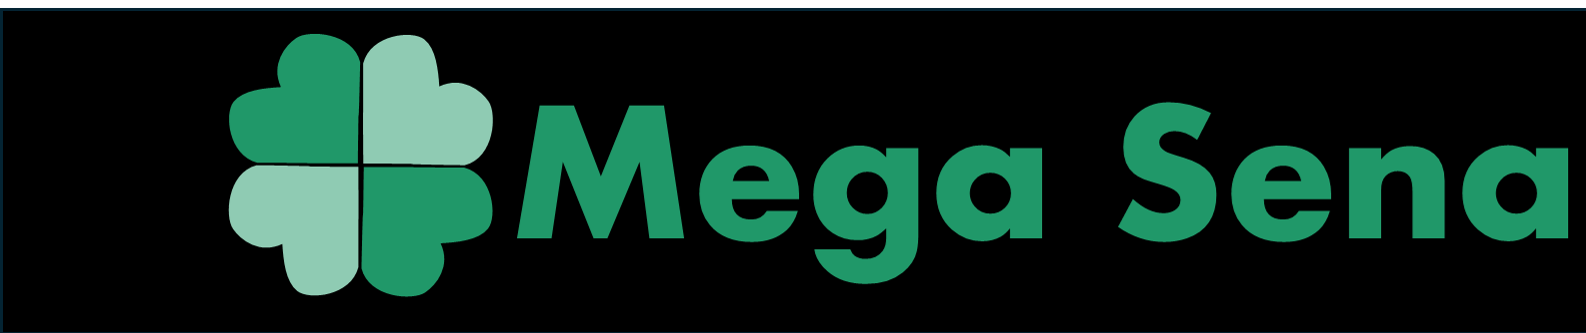
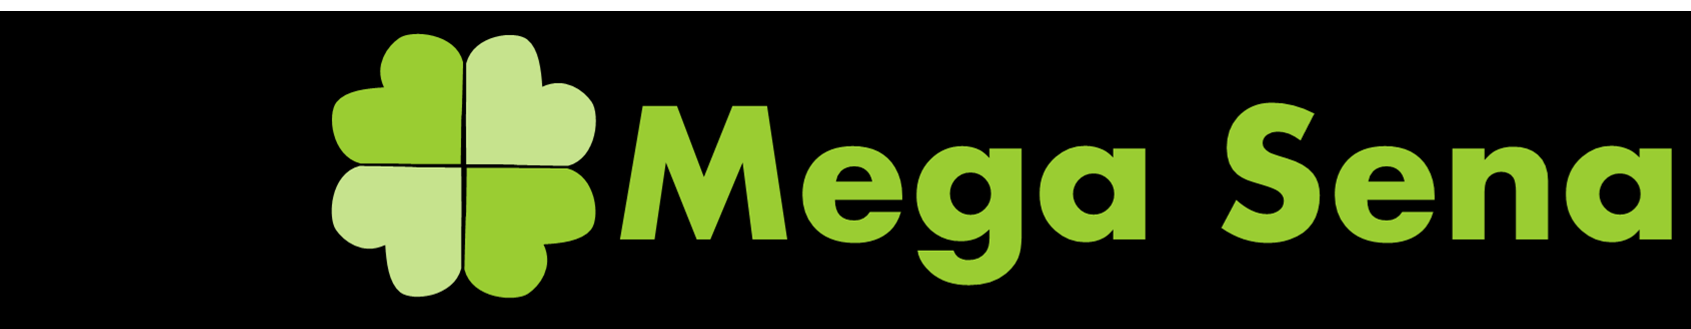
ajustando layou das paginas

diff --git a/templates/analise_estatistica_avancada_quina.html b/templates/analise_estatistica_avancada_quina.html
@@ -76,7 +76,7 @@
   <link rel="stylesheet" href="{{ url_for('static', filename='css/estilo.css') }}">
 
   <style>
-    /* Moldura Neon Lilás - Desktop */
+    /* Moldura Neon Azul Ciano Escuro - Desktop */
     html::before {
       content: '';
       position: fixed;
@@ -84,15 +84,15 @@
       left: 0;
       width: 100vw;
       height: 100vh;
-      box-shadow: inset 0 0 0 4px #B96AFF, 0 0 15px #B96AFF, 0 0 30px #B96AFF;
+      box-shadow: inset 0 0 0 4px #008B8B, 0 0 15px #008B8B, 0 0 30px #008B8B;
       z-index: 9999;
       pointer-events: none;
     }
 
-    /* Moldura Neon Lilás - Mobile (mais fina) */
+    /* Moldura Neon Azul Ciano Escuro - Mobile (mais fina) */
     @media (max-width: 768px) {
       html::before {
-        box-shadow: inset 0 0 0 2px #B96AFF, 0 0 8px #B96AFF, 0 0 15px #B96AFF;
+        box-shadow: inset 0 0 0 2px #008B8B, 0 0 8px #008B8B, 0 0 15px #008B8B;
       }
     }
 
@@ -488,7 +488,8 @@
       right: 0;
       background: linear-gradient(135deg, rgba(30, 27, 41, 0.95) 0%, rgba(42, 35, 64, 0.95) 100%);
       backdrop-filter: blur(10px);
-      border-bottom: 1px solid rgba(255, 255, 255, 0.1);
+      border-bottom: 3px solid #008B8B;
+      box-shadow: 0 2px 8px rgba(0, 139, 139, 0.15);
       z-index: 1000;
       padding: 1rem 2rem;
       display: flex;
@@ -1006,10 +1007,10 @@
 
   <!-- Conteúdo Premium será adicionado aqui -->
   <div class="container mx-auto">
-    <h2 class="text-2xl font-bold text-white mb-6 text-center">🎯 Aposta Inteligente Premium</h2>
+    <h2 class="text-2xl font-bold mb-6 text-center" style="color: #008B8B;">🎯 Aposta Inteligente Premium - Quina</h2>
     
     <!-- Conteúdo será adicionado posteriormente -->
-    <div class="bg-[#1A1D25] p-8 rounded-2xl shadow-md">
+    <div class="bg-[#1A1D25] p-8 rounded-2xl shadow-md" style="border: 1px solid #008B8B; box-shadow: 0 4px 6px -1px rgba(0, 139, 139, 0.2), inset 0 0 0 1px rgba(0, 139, 139, 0.1), 0 0 20px rgba(0, 139, 139, 0.15);">
       <div class="bloco-texto-aposta">
         <p class="texto-desktop">
           Com a Aposta Inteligente Premium, você vai além da sorte: você define os parâmetros, analisa os dados reais e usa inteligência estatística e sistema de pesos computacionais para gerar apostas fundamentadas. 🎯 Configure filtros, selecione padrões e use suas próprias decisões estratégicas para orientar o sistema de análise estatística. O controle está nas suas mãos — com o apoio da tecnologia de dados reais.
@@ -1021,7 +1022,7 @@
     </div>
     
     <!-- Bloco Explicativo com Passo a Passo -->
-    <div class="mt-8 bg-[#1A1D25] p-6 rounded-2xl shadow-md">
+    <div class="mt-8 bg-[#1A1D25] p-6 rounded-2xl shadow-md" style="border: 1px solid #008B8B; box-shadow: 0 4px 6px -1px rgba(0, 139, 139, 0.2), inset 0 0 0 1px rgba(0, 139, 139, 0.1), 0 0 20px rgba(0, 139, 139, 0.15);">
       <h3 class="text-xl font-bold text-white mb-6 text-center">📘 Como usar a aposta inteligente:</h3>
       
       <div class="grid grid-cols-1 md:grid-cols-2 gap-6">
@@ -1029,7 +1030,7 @@
         <div id="passo1" class="bg-[#2E303A] p-4 rounded-xl">
           <div class="flex items-center mb-3">
             <span class="bg-[#00E38C] text-black font-bold px-3 py-1 rounded-full text-sm mr-3">Passo 1</span>
-            <h4 class="text-lg font-semibold" style="color: #A855F7;">Descubra os Números Mais Sorteados</h4>
+            <h4 class="text-lg font-semibold" style="color: #008B8B;">Descubra os Números Mais Sorteados</h4>
           </div>
           <p class="text-gray-300 text-sm mb-3">Veja os números que mais saem e use essa informação no seu jogo.</p>
           <button class="bg-[#00E38C] text-black font-semibold px-4 py-2 rounded-lg hover:opacity-80 transition-all text-sm w-full" onclick="abrirModal('frequencia')">
@@ -1041,7 +1042,7 @@
         <div id="passo2" class="bg-[#2E303A] p-4 rounded-xl">
           <div class="flex items-center mb-3">
             <span class="bg-[#00E38C] text-black font-bold px-3 py-1 rounded-full text-sm mr-3">Passo 2</span>
-            <h4 class="text-lg font-semibold" style="color: #A855F7;">Entenda Como os Números se Distribuem</h4>
+            <h4 class="text-lg font-semibold" style="color: #008B8B;">Entenda Como os Números se Distribuem</h4>
           </div>
           <p class="text-gray-300 text-sm mb-3">Entenda como os números se espalham entre grupos e padrões.</p>
           <button class="bg-[#00E38C] text-black font-semibold px-4 py-2 rounded-lg hover:opacity-80 transition-all text-sm w-full" onclick="abrirModal('distribuicao')">
@@ -1053,7 +1054,7 @@
         <div id="passo3" class="bg-[#2E303A] p-4 rounded-xl">
           <div class="flex items-center mb-3">
             <span class="bg-[#00E38C] text-black font-bold px-3 py-1 rounded-full text-sm mr-3">Passo 3</span>
-            <h4 class="text-lg font-semibold" style="color: #A855F7;">Encontre Combinações que Saem Juntas</h4>
+            <h4 class="text-lg font-semibold" style="color: #008B8B;">Encontre Combinações que Saem Juntas</h4>
           </div>
           <p class="text-gray-300 text-sm mb-3">Descubra combinações que costumam sair juntas.</p>
           <button class="bg-[#00E38C] text-black font-semibold px-4 py-2 rounded-lg hover:opacity-80 transition-all text-sm w-full" onclick="abrirModal('afinidades')">
@@ -1065,7 +1066,7 @@
         <div id="passo4" class="bg-[#2E303A] p-4 rounded-xl">
           <div class="flex items-center mb-3">
             <span class="bg-[#00E38C] text-black font-bold px-3 py-1 rounded-full text-sm mr-3">Passo 4</span>
-            <h4 class="text-lg font-semibold" style="color: #A855F7;">Análise de Sequências</h4>
+            <h4 class="text-lg font-semibold" style="color: #008B8B;">Análise de Sequências</h4>
           </div>
           <p class="text-gray-300 text-sm mb-3">Identifique padrões de números consecutivos e sequências.</p>
           <button class="bg-[#00E38C] text-black font-semibold px-4 py-2 rounded-lg hover:opacity-80 transition-all text-sm w-full" onclick="abrirModal('sequencias')">
@@ -1077,7 +1078,7 @@
         <div id="passo5" class="bg-[#2E303A] p-4 rounded-xl">
           <div class="flex items-center mb-3">
             <span class="bg-[#00E38C] text-black font-bold px-3 py-1 rounded-full text-sm mr-3">Passo 5</span>
-            <h4 class="text-lg font-semibold" style="color: #A855F7;">Identifique Números que Não Saem</h4>
+            <h4 class="text-lg font-semibold" style="color: #008B8B;">Identifique Números que Não Saem</h4>
           </div>
           <p class="text-gray-300 text-sm mb-3">Evite números que estão há muito tempo sem sair.</p>
           <button class="bg-[#00E38C] text-black font-semibold px-4 py-2 rounded-lg hover:opacity-80 transition-all text-sm w-full" onclick="abrirModal('seca')">
@@ -1089,7 +1090,7 @@
         <div class="bg-[#2E303A] p-4 rounded-xl">
           <div class="flex items-center mb-3">
             <span class="bg-[#00E38C] text-black font-bold px-3 py-1 rounded-full text-sm mr-3">Passo 6</span>
-            <h4 class="text-lg font-semibold" style="color: #A855F7;">Estatística Avançada para Padrões Ocultos</h4>
+            <h4 class="text-lg font-semibold" style="color: #008B8B;">Estatística Avançada para Padrões Ocultos</h4>
           </div>
           <p class="text-gray-300 text-sm mb-3">Explore correlações, padrões ocultos e tendências com análise estatística avançada.</p>
           <button class="bg-[#00E38C] text-black font-semibold px-4 py-2 rounded-lg hover:opacity-80 transition-all text-sm w-full" onclick="abrirModal('estatisticas')">
@@ -1101,7 +1102,7 @@
     
     <!-- Botão principal do Machine Learning - NO FINAL -->
     <div id="passo6" class="mt-8 text-center">
-      <div class="bg-gradient-to-r from-[#00E38C] to-[#8B5CF6] p-1 rounded-xl inline-block">
+      <div class="bg-gradient-to-r from-[#00E38C] to-[#008B8B] p-1 rounded-xl inline-block">
         <button class="bg-[#1A1D25] text-white font-bold px-8 py-4 rounded-lg hover:bg-[#2E303A] transition-all text-lg" id="abrir-modal-premium">
           🎯 Gerar Aposta Inteligente (Premium)
         </button>

diff --git a/templates/analise_estatistica_avancada_megasena.html b/templates/analise_estatistica_avancada_megasena.html
@@ -71,7 +71,7 @@
   <link rel="stylesheet" href="{{ url_for('static', filename='css/estilo.css') }}">
 
   <style>
-    /* Moldura Neon Lilás - Desktop */
+    /* Moldura Neon Verde Oliva - Desktop */
     html::before {
       content: '';
       position: fixed;
@@ -79,15 +79,15 @@
       left: 0;
       width: 100vw;
       height: 100vh;
-      box-shadow: inset 0 0 0 4px #B96AFF, 0 0 15px #B96AFF, 0 0 30px #B96AFF;
+      box-shadow: inset 0 0 0 4px #9ACD32, 0 0 15px #9ACD32, 0 0 30px #9ACD32;
       z-index: 9999;
       pointer-events: none;
     }
 
-    /* Moldura Neon Lilás - Mobile (mais fina) */
+    /* Moldura Neon Verde Oliva - Mobile (mais fina) */
     @media (max-width: 768px) {
       html::before {
-        box-shadow: inset 0 0 0 2px #B96AFF, 0 0 8px #B96AFF, 0 0 15px #B96AFF;
+        box-shadow: inset 0 0 0 2px #9ACD32, 0 0 8px #9ACD32, 0 0 15px #9ACD32;
       }
     }
 
@@ -427,7 +427,8 @@
       right: 0;
       background: linear-gradient(135deg, rgba(30, 27, 41, 0.95) 0%, rgba(42, 35, 64, 0.95) 100%);
       backdrop-filter: blur(10px);
-      border-bottom: 1px solid rgba(255, 255, 255, 0.1);
+      border-bottom: 3px solid #9ACD32;
+      box-shadow: 0 2px 8px rgba(154, 205, 50, 0.15);
       z-index: 1000;
       padding: 1rem 2rem;
       display: flex;
@@ -1001,10 +1002,10 @@
 
   <!-- Conteúdo Premium será adicionado aqui -->
   <div class="container mx-auto">
-    <h2 class="text-2xl font-bold text-white mb-6 text-center">🎯 Aposta Inteligente Premium</h2>
+    <h2 class="text-2xl font-bold mb-6 text-center" style="color: #9ACD32;">🎯 Aposta Inteligente Premium - Mega Sena</h2>
     
     <!-- Conteúdo será adicionado posteriormente -->
-    <div class="bg-[#1A1D25] p-8 rounded-2xl shadow-md">
+    <div class="bg-[#1A1D25] p-8 rounded-2xl shadow-md" style="border: 1px solid #9ACD32; box-shadow: 0 4px 6px -1px rgba(154, 205, 50, 0.2), inset 0 0 0 1px rgba(154, 205, 50, 0.1), 0 0 20px rgba(154, 205, 50, 0.15);">
       <div class="bloco-texto-aposta">
         <p class="texto-desktop">
           Com a Aposta Inteligente Premium, você vai além da sorte: você define os parâmetros, analisa os dados reais e usa inteligência estatística e sistema de pesos computacionais para gerar apostas fundamentadas. 🎯 Configure filtros, selecione padrões e use suas próprias decisões estratégicas para orientar o sistema de análise estatística. O controle está nas suas mãos — com o apoio da tecnologia de dados reais.
@@ -1016,7 +1017,7 @@
     </div>
     
     <!-- Bloco Explicativo com Passo a Passo -->
-    <div class="mt-8 bg-[#1A1D25] p-6 rounded-2xl shadow-md">
+    <div class="mt-8 bg-[#1A1D25] p-6 rounded-2xl shadow-md" style="border: 1px solid #9ACD32; box-shadow: 0 4px 6px -1px rgba(154, 205, 50, 0.2), inset 0 0 0 1px rgba(154, 205, 50, 0.1), 0 0 20px rgba(154, 205, 50, 0.15);">
       <h3 class="text-xl font-bold text-white mb-6 text-center">📘 Como usar a aposta inteligente:</h3>
       
       <div class="grid grid-cols-1 md:grid-cols-2 gap-6">
@@ -1024,7 +1025,7 @@
         <div id="passo1" class="bg-[#2E303A] p-4 rounded-xl">
           <div class="flex items-center mb-3">
             <span class="bg-[#00E38C] text-black font-bold px-3 py-1 rounded-full text-sm mr-3">Passo 1</span>
-            <h4 class="text-lg font-semibold" style="color: #A855F7;">Descubra os Números Mais Sorteados</h4>
+            <h4 class="text-lg font-semibold" style="color: #9ACD32;">Descubra os Números Mais Sorteados</h4>
           </div>
           <p class="text-gray-300 text-sm mb-3">Veja os números que mais saem e use essa informação no seu jogo.</p>
           <button class="bg-[#00E38C] text-black font-semibold px-4 py-2 rounded-lg hover:opacity-80 transition-all text-sm w-full" onclick="abrirModal('frequencia')">
@@ -1036,7 +1037,7 @@
         <div id="passo2" class="bg-[#2E303A] p-4 rounded-xl">
           <div class="flex items-center mb-3">
             <span class="bg-[#00E38C] text-black font-bold px-3 py-1 rounded-full text-sm mr-3">Passo 2</span>
-            <h4 class="text-lg font-semibold" style="color: #A855F7;">Entenda Como os Números se Distribuem</h4>
+            <h4 class="text-lg font-semibold" style="color: #9ACD32;">Entenda Como os Números se Distribuem</h4>
           </div>
           <p class="text-gray-300 text-sm mb-3">Entenda como os números se espalham entre grupos e padrões.</p>
           <button class="bg-[#00E38C] text-black font-semibold px-4 py-2 rounded-lg hover:opacity-80 transition-all text-sm w-full" onclick="abrirModal('distribuicao')">
@@ -1048,7 +1049,7 @@
         <div id="passo3" class="bg-[#2E303A] p-4 rounded-xl">
           <div class="flex items-center mb-3">
             <span class="bg-[#00E38C] text-black font-bold px-3 py-1 rounded-full text-sm mr-3">Passo 3</span>
-            <h4 class="text-lg font-semibold" style="color: #A855F7;">Encontre Combinações que Saem Juntas</h4>
+            <h4 class="text-lg font-semibold" style="color: #9ACD32;">Encontre Combinações que Saem Juntas</h4>
           </div>
           <p class="text-gray-300 text-sm mb-3">Descubra combinações que costumam sair juntas.</p>
           <button class="bg-[#00E38C] text-black font-semibold px-4 py-2 rounded-lg hover:opacity-80 transition-all text-sm w-full" onclick="abrirModal('afinidades')">
@@ -1060,7 +1061,7 @@
         <div id="passo4" class="bg-[#2E303A] p-4 rounded-xl">
           <div class="flex items-center mb-3">
             <span class="bg-[#00E38C] text-black font-bold px-3 py-1 rounded-full text-sm mr-3">Passo 4</span>
-            <h4 class="text-lg font-semibold" style="color: #A855F7;">Análise de Sequências</h4>
+            <h4 class="text-lg font-semibold" style="color: #9ACD32;">Análise de Sequências</h4>
           </div>
           <p class="text-gray-300 text-sm mb-3">Identifique padrões de números consecutivos e sequências.</p>
           <button class="bg-[#00E38C] text-black font-semibold px-4 py-2 rounded-lg hover:opacity-80 transition-all text-sm w-full" onclick="abrirModal('sequencias')">
@@ -1072,7 +1073,7 @@
         <div id="passo5" class="bg-[#2E303A] p-4 rounded-xl">
           <div class="flex items-center mb-3">
             <span class="bg-[#00E38C] text-black font-bold px-3 py-1 rounded-full text-sm mr-3">Passo 5</span>
-            <h4 class="text-lg font-semibold" style="color: #A855F7;">Identifique Números que Não Saem</h4>
+            <h4 class="text-lg font-semibold" style="color: #9ACD32;">Identifique Números que Não Saem</h4>
           </div>
           <p class="text-gray-300 text-sm mb-3">Evite números que estão há muito tempo sem sair.</p>
           <button class="bg-[#00E38C] text-black font-semibold px-4 py-2 rounded-lg hover:opacity-80 transition-all text-sm w-full" onclick="abrirModal('seca')">
@@ -1084,7 +1085,7 @@
         <div class="bg-[#2E303A] p-4 rounded-xl">
           <div class="flex items-center mb-3">
             <span class="bg-[#00E38C] text-black font-bold px-3 py-1 rounded-full text-sm mr-3">Passo 6</span>
-            <h4 class="text-lg font-semibold" style="color: #A855F7;">Estatística Avançada para Padrões Ocultos</h4>
+            <h4 class="text-lg font-semibold" style="color: #9ACD32;">Estatística Avançada para Padrões Ocultos</h4>
           </div>
           <p class="text-gray-300 text-sm mb-3">Explore correlações, padrões ocultos e tendências com análise estatística avançada.</p>
           <button class="bg-[#00E38C] text-black font-semibold px-4 py-2 rounded-lg hover:opacity-80 transition-all text-sm w-full" onclick="abrirModal('estatisticas')">
@@ -1096,7 +1097,7 @@
     
     <!-- Botão principal do Machine Learning - NO FINAL -->
     <div id="passo6" class="mt-8 text-center">
-      <div class="bg-gradient-to-r from-[#00E38C] to-[#8B5CF6] p-1 rounded-xl inline-block">
+      <div class="bg-gradient-to-r from-[#00E38C] to-[#9ACD32] p-1 rounded-xl inline-block">
         <button class="bg-[#1A1D25] text-white font-bold px-8 py-4 rounded-lg hover:bg-[#2E303A] transition-all text-lg" id="abrir-modal-premium">
           🎯 Gerar Aposta Inteligente (Premium)
         </button>

diff --git a/templates/analise_estatistica_avancada_lotofacil.html b/templates/analise_estatistica_avancada_lotofacil.html
@@ -135,7 +135,7 @@
   <link rel="stylesheet" href="{{ url_for('static', filename='css/estilo.css') }}">
 
   <style>
-    /* Moldura Neon Lilás - Desktop */
+    /* Moldura Neon Roxo/Magenta - Desktop */
     html::before {
       content: '';
       position: fixed;
@@ -143,15 +143,15 @@
       left: 0;
       width: 100vw;
       height: 100vh;
-      box-shadow: inset 0 0 0 4px #B96AFF, 0 0 15px #B96AFF, 0 0 30px #B96AFF;
+      box-shadow: inset 0 0 0 4px #930089, 0 0 15px #930089, 0 0 30px #930089;
       z-index: 9999;
       pointer-events: none;
     }
 
-    /* Moldura Neon Lilás - Mobile (mais fina) */
+    /* Moldura Neon Roxo/Magenta - Mobile (mais fina) */
     @media (max-width: 768px) {
       html::before {
-        box-shadow: inset 0 0 0 2px #B96AFF, 0 0 8px #B96AFF, 0 0 15px #B96AFF;
+        box-shadow: inset 0 0 0 2px #930089, 0 0 8px #930089, 0 0 15px #930089;
       }
     }
 
@@ -548,7 +548,8 @@
       right: 0;
       background: linear-gradient(135deg, rgba(30, 27, 41, 0.95) 0%, rgba(42, 35, 64, 0.95) 100%);
       backdrop-filter: blur(10px);
-      border-bottom: 1px solid rgba(255, 255, 255, 0.1);
+      border-bottom: 3px solid #930089;
+      box-shadow: 0 2px 8px rgba(147, 0, 137, 0.15);
       z-index: 1000;
       padding: 1rem 2rem;
       display: flex;
@@ -1066,10 +1067,10 @@
 
   <!-- Conteúdo Premium será adicionado aqui -->
   <div class="container mx-auto">
-    <h2 class="text-2xl font-bold text-white mb-6 text-center">🎯 Aposta Inteligente Premium</h2>
+    <h2 class="text-2xl font-bold mb-6 text-center" style="color: #930089;">🎯 Aposta Inteligente Premium - Lotofácil</h2>
 
     <!-- Conteúdo será adicionado posteriormente -->
-    <div class="bg-[#1A1D25] p-8 rounded-2xl shadow-md">
+    <div class="bg-[#1A1D25] p-8 rounded-2xl shadow-md" style="border: 1px solid #930089; box-shadow: 0 4px 6px -1px rgba(147, 0, 137, 0.2), inset 0 0 0 1px rgba(147, 0, 137, 0.1), 0 0 20px rgba(147, 0, 137, 0.15);">
       <div class="bloco-texto-aposta">
         <p class="texto-desktop">
           Com a Aposta Inteligente Premium, você vai além da sorte: você define os parâmetros, analisa os dados reais e usa inteligência estatística e sistema de pesos computacionais para gerar apostas fundamentadas. 🎯 Configure filtros, selecione padrões e use suas próprias decisões estratégicas para orientar o sistema de análise estatística. O controle está nas suas mãos — com o apoio da tecnologia de dados reais.
@@ -1081,7 +1082,7 @@
     </div>
 
     <!-- Bloco Explicativo com Passo a Passo -->
-    <div class="mt-8 bg-[#1A1D25] p-6 rounded-2xl shadow-md">
+    <div class="mt-8 bg-[#1A1D25] p-6 rounded-2xl shadow-md" style="border: 1px solid #930089; box-shadow: 0 4px 6px -1px rgba(147, 0, 137, 0.2), inset 0 0 0 1px rgba(147, 0, 137, 0.1), 0 0 20px rgba(147, 0, 137, 0.15);">
       <h3 class="text-xl font-bold text-white mb-6 text-center">📘 Como usar a aposta inteligente:</h3>
 
       <div class="grid grid-cols-1 md:grid-cols-2 gap-6">
@@ -1089,7 +1090,7 @@
         <div id="passo1" class="bg-[#2E303A] p-4 rounded-xl">
           <div class="flex items-center mb-3">
             <span class="bg-[#00E38C] text-black font-bold px-3 py-1 rounded-full text-sm mr-3">Passo 1</span>
-            <h4 class="text-lg font-semibold" style="color: #A855F7;">Descubra os Números Mais Sorteados</h4>
+            <h4 class="text-lg font-semibold" style="color: #930089;">Descubra os Números Mais Sorteados</h4>
           </div>
           <p class="text-gray-300 text-sm mb-3">Veja os números que mais saem e use essa informação no seu jogo.</p>
           <button class="bg-[#00E38C] text-black font-semibold px-4 py-2 rounded-lg hover:opacity-80 transition-all text-sm w-full" onclick="abrirModal('frequencia')">
@@ -1101,7 +1102,7 @@
         <div id="passo2" class="bg-[#2E303A] p-4 rounded-xl">
           <div class="flex items-center mb-3">
             <span class="bg-[#00E38C] text-black font-bold px-3 py-1 rounded-full text-sm mr-3">Passo 2</span>
-            <h4 class="text-lg font-semibold" style="color: #A855F7;">Entenda Como os Números se Distribuem</h4>
+            <h4 class="text-lg font-semibold" style="color: #930089;">Entenda Como os Números se Distribuem</h4>
           </div>
           <p class="text-gray-300 text-sm mb-3">Entenda como os números se espalham entre grupos e padrões.</p>
           <button class="bg-[#00E38C] text-black font-semibold px-4 py-2 rounded-lg hover:opacity-80 transition-all text-sm w-full" onclick="abrirModal('distribuicao')">
@@ -1113,7 +1114,7 @@
         <div id="passo3" class="bg-[#2E303A] p-4 rounded-xl">
           <div class="flex items-center mb-3">
             <span class="bg-[#00E38C] text-black font-bold px-3 py-1 rounded-full text-sm mr-3">Passo 3</span>
-            <h4 class="text-lg font-semibold" style="color: #A855F7;">Encontre Combinações que Saem Juntas</h4>
+            <h4 class="text-lg font-semibold" style="color: #930089;">Encontre Combinações que Saem Juntas</h4>
           </div>
           <p class="text-gray-300 text-sm mb-3">Descubra combinações que costumam sair juntas.</p>
           <button class="bg-[#00E38C] text-black font-semibold px-4 py-2 rounded-lg hover:opacity-80 transition-all text-sm w-full" onclick="abrirModal('afinidades')">
@@ -1125,7 +1126,7 @@
         <div id="passo4" class="bg-[#2E303A] p-4 rounded-xl">
           <div class="flex items-center mb-3">
             <span class="bg-[#00E38C] text-black font-bold px-3 py-1 rounded-full text-sm mr-3">Passo 4</span>
-            <h4 class="text-lg font-semibold" style="color: #A855F7;">Análise de Sequências</h4>
+            <h4 class="text-lg font-semibold" style="color: #930089;">Análise de Sequências</h4>
           </div>
           <p class="text-gray-300 text-sm mb-3">Identifique padrões de números consecutivos e sequências.</p>
           <button class="bg-[#00E38C] text-black font-semibold px-4 py-2 rounded-lg hover:opacity-80 transition-all text-sm w-full" onclick="abrirModal('sequencias')">
@@ -1137,7 +1138,7 @@
         <div id="passo5" class="bg-[#2E303A] p-4 rounded-xl">
           <div class="flex items-center mb-3">
             <span class="bg-[#00E38C] text-black font-bold px-3 py-1 rounded-full text-sm mr-3">Passo 5</span>
-            <h4 class="text-lg font-semibold" style="color: #A855F7;">Identifique Números que Não Saem</h4>
+            <h4 class="text-lg font-semibold" style="color: #930089;">Identifique Números que Não Saem</h4>
           </div>
           <p class="text-gray-300 text-sm mb-3">Evite números que estão há muito tempo sem sair.</p>
           <button class="bg-[#00E38C] text-black font-semibold px-4 py-2 rounded-lg hover:opacity-80 transition-all text-sm w-full" onclick="abrirModal('seca')">
@@ -1149,7 +1150,7 @@
         <div class="bg-[#2E303A] p-4 rounded-xl">
           <div class="flex items-center mb-3">
             <span class="bg-[#00E38C] text-black font-bold px-3 py-1 rounded-full text-sm mr-3">Passo 6</span>
-            <h4 class="text-lg font-semibold" style="color: #A855F7;">Estatística Avançada para Padrões Ocultos</h4>
+            <h4 class="text-lg font-semibold" style="color: #930089;">Estatística Avançada para Padrões Ocultos</h4>
           </div>
           <p class="text-gray-300 text-sm mb-3">Explore correlações, padrões ocultos e tendências com análise estatística avançada.</p>
           <button class="bg-[#00E38C] text-black font-semibold px-4 py-2 rounded-lg hover:opacity-80 transition-all text-sm w-full" onclick="abrirModal('estatisticas')">
@@ -1161,7 +1162,7 @@
 
     <!-- Botão principal do Machine Learning - NO FINAL -->
     <div id="passo6" class="mt-8 text-center">
-      <div class="bg-gradient-to-r from-[#00E38C] to-[#8B5CF6] p-1 rounded-xl inline-block">
+      <div class="bg-gradient-to-r from-[#00E38C] to-[#930089] p-1 rounded-xl inline-block">
         <button class="bg-[#1A1D25] text-white font-bold px-8 py-4 rounded-lg hover:bg-[#2E303A] transition-all text-lg" id="abrir-modal-premium">
           🎯 Gerar Aposta Inteligente (Premium)
         </button>

diff --git a/templates/analise_estatistica_avancada_milionaria.html b/templates/analise_estatistica_avancada_milionaria.html
@@ -71,7 +71,7 @@
   <link rel="stylesheet" href="{{ url_for('static', filename='css/estilo.css') }}">
 
   <style>
-    /* Moldura Neon Lilás - Desktop */
+    /* Moldura Neon Azul - Desktop */
     html::before {
       content: '';
       position: fixed;
@@ -79,15 +79,15 @@
       left: 0;
       width: 100vw;
       height: 100vh;
-      box-shadow: inset 0 0 0 4px #B96AFF, 0 0 15px #B96AFF, 0 0 30px #B96AFF;
+      box-shadow: inset 0 0 0 4px #3B82F6, 0 0 15px #3B82F6, 0 0 30px #3B82F6;
       z-index: 9999;
       pointer-events: none;
     }
 
-    /* Moldura Neon Lilás - Mobile (mais fina) */
+    /* Moldura Neon Azul - Mobile (mais fina) */
     @media (max-width: 768px) {
       html::before {
-        box-shadow: inset 0 0 0 2px #B96AFF, 0 0 8px #B96AFF, 0 0 15px #B96AFF;
+        box-shadow: inset 0 0 0 2px #3B82F6, 0 0 8px #3B82F6, 0 0 15px #3B82F6;
       }
     }
 
